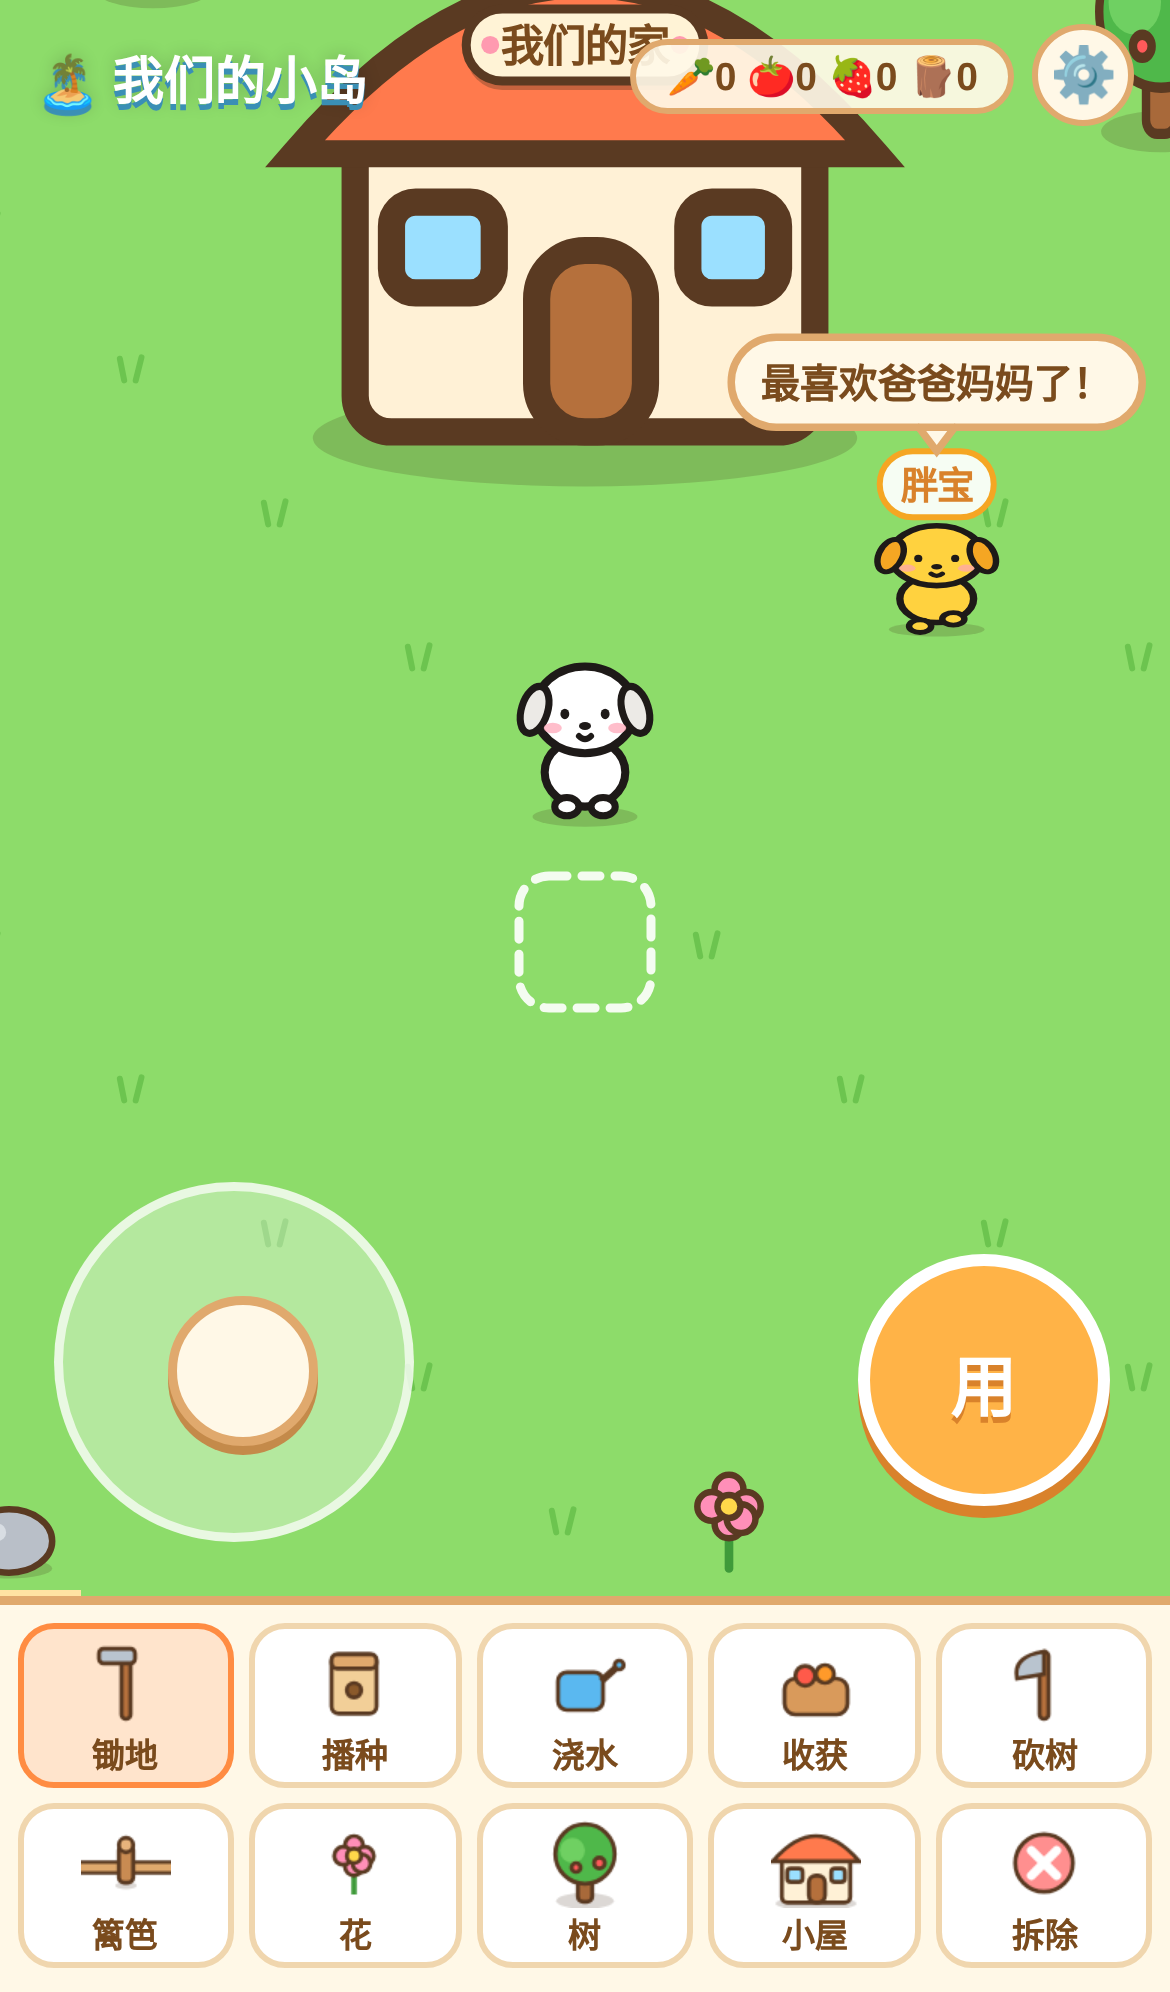
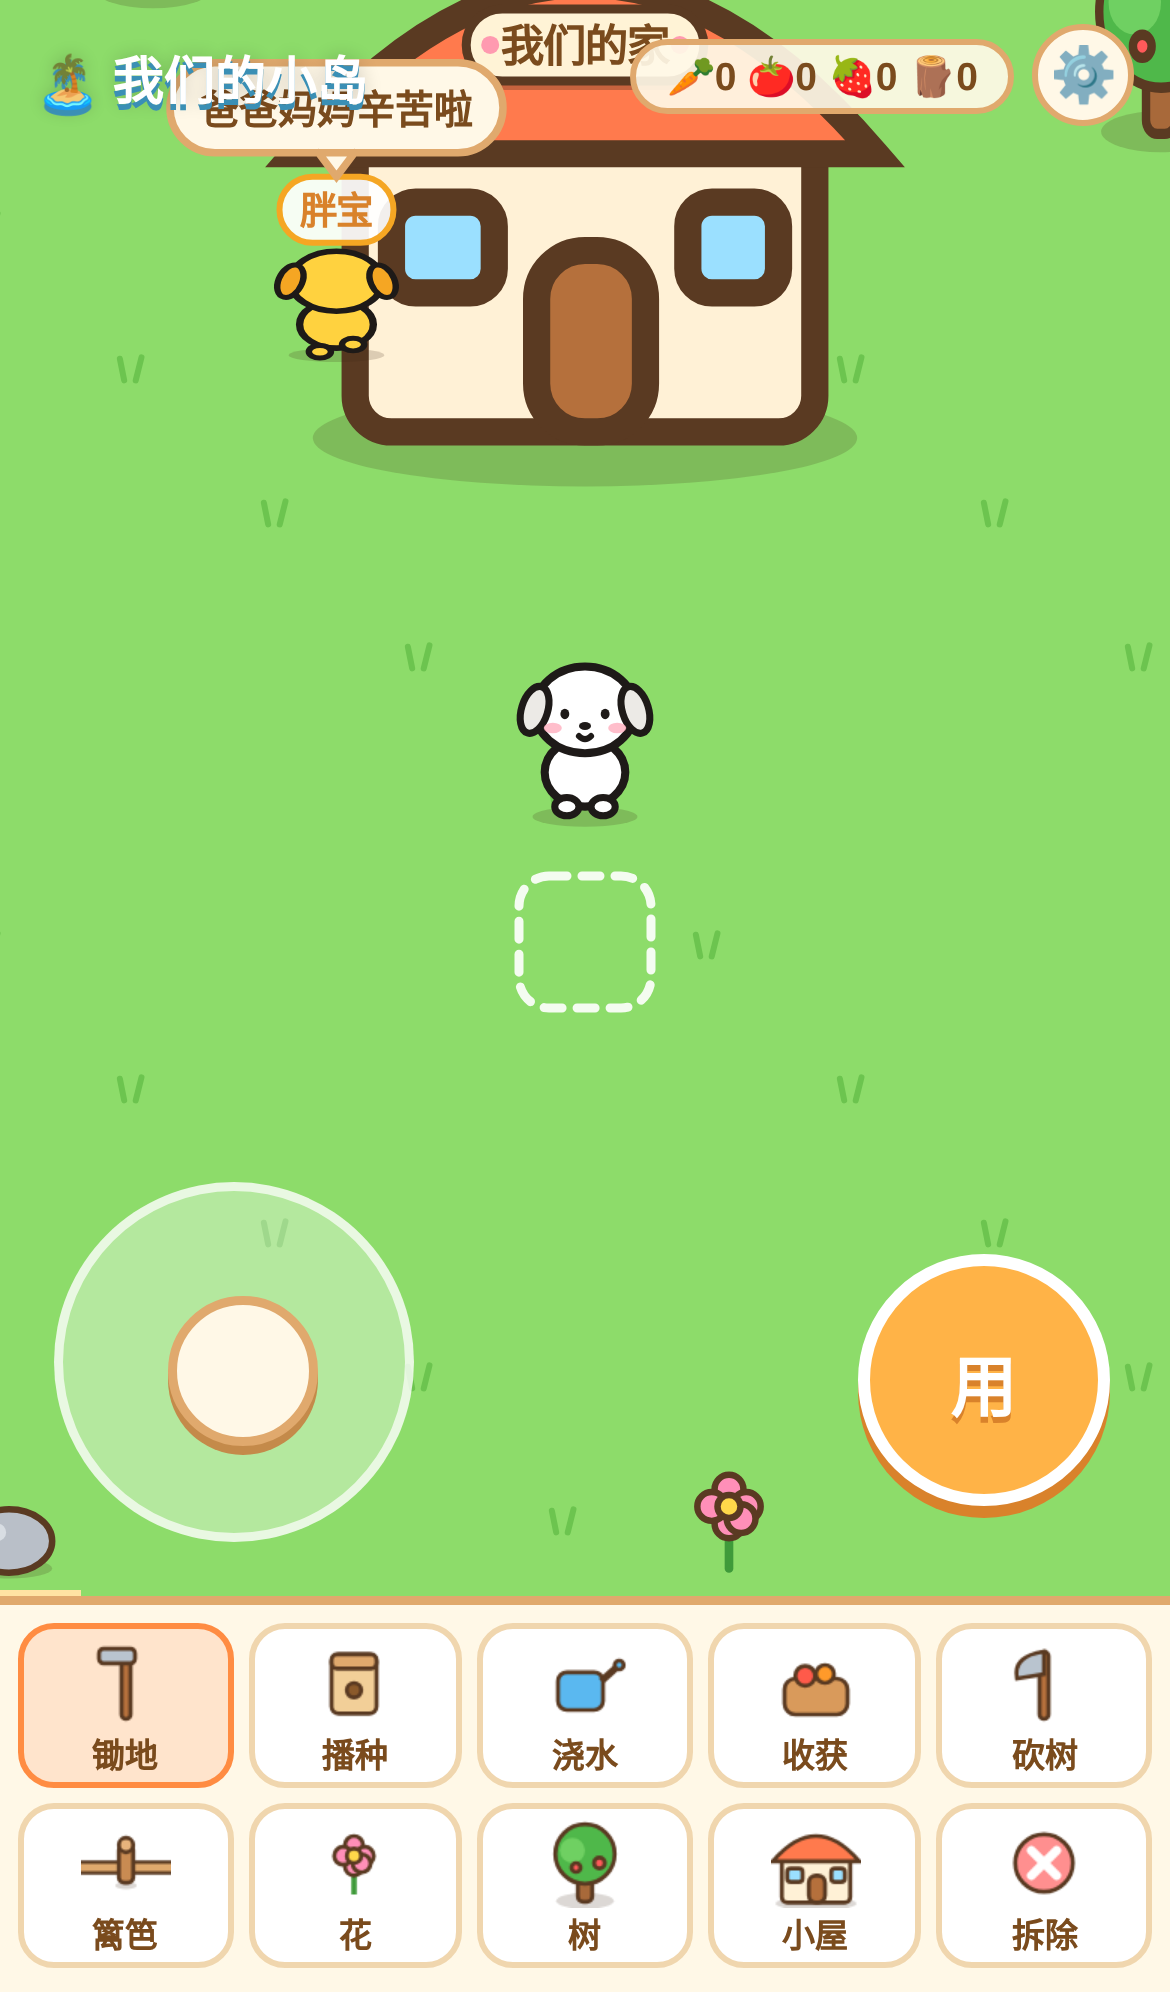
v8: 抓住/放下胖宝（抱着走、蹬腿挣扎、气泡）

Changed region(s): [[0.6154, 0.1556, 0.9846, 0.3424], [0.1231, 0.0311, 0.4308, 0.1867]]

diff --git a/js/baby.js b/js/baby.js
@@ -5,9 +5,16 @@ const BABY_SAY={
  sit:['胖宝好舒服','胖宝累了','胖宝乖乖坐好','胖宝在晒太阳','胖宝在等爸爸妈妈','胖宝滚来滚去','胖宝挠挠耳朵','胖宝肚肚圆滚滚'],
  sleep:['胖宝睡着了','胖宝在做美梦','胖宝打呼噜','胖宝梦见了大骨头','胖宝梦见爸爸妈妈','嘘…胖宝在睡觉'],
  hop:['胖宝蹦蹦跳跳','胖宝超开心！','胖宝转圈圈','胖宝跳起来了'],
+ carry:['放开我~','胖宝挣扎中','胖宝要下来','幸福的胖宝','胖宝蹬蹬腿','被抱住啦！','胖宝跑不掉了','胖宝在爸爸妈妈怀里'],
  tap:['最喜欢爸爸妈妈了！','胖宝爱你哦 ❤','抱抱～','嘿嘿，好痒','亲亲！','胖宝今天很乖哦','要一直在一起哦','爸爸妈妈辛苦啦']};
 const pick=a=>a[Math.random()*a.length|0];
-const baby={x:0,y:0,dir:0,mode:'idle',t:1,tx:0,ty:0,phase:0,bub:'',bubT:0,nextBub:3,hop:0,heart:0,init:false};
+const baby={x:0,y:0,dir:0,mode:'idle',t:1,tx:0,ty:0,phase:0,bub:'',bubT:0,nextBub:3,hop:0,heart:0,init:false,carried:false};
+const grabBtn=document.getElementById('grab');
+function setGrab(show,txt){if(grabBtn.classList.contains('hidden')===show)grabBtn.classList.toggle('hidden',!show);if(grabBtn.textContent!==txt)grabBtn.textContent=txt}
+grabBtn.addEventListener('pointerdown',e=>{e.preventDefault();baby.carried?babyDrop():babyGrab()});
+function babyGrab(){baby.carried=true;baby.mode='carry';baby.nextBub=1.5;say(pick(BABY_SAY.carry))}
+function babyDrop(){const p=state.player,d=[[0,1],[0,-1],[-1,0],[1,0]][p.dir];const c=[d,[0,1],[1,0],[-1,0],[0,-1]];
+ for(const[dx,dy]of c){const x=Math.floor(p.x)+dx+.5,y=Math.floor(p.y)+dy+.5;if(babyFree(x,y)){baby.x=x;baby.y=y;baby.carried=false;babyMode('hop',1.2);say('胖宝自由啦～');return}}toast('这里放不下胖宝')}
 function babyHome(){for(const k in state.obj)if(state.obj[k]==='house')return[k%W+.5,(k/W|0)+2.5];return[state.player.x,state.player.y+1]}
 function babyFree(x,y){const r=.2;return![[x-r,y-.05],[x+r,y-.05],[x-r,y+.15],[x+r,y+.15]].some(([a,b])=>blocked(Math.floor(a),Math.floor(b)))}
 function babyName(){state.baby=state.baby||{name:'胖宝'};return state.baby.name||'胖宝'}
@@ -17,7 +24,9 @@ function babyMode(m,t){baby.mode=m;baby.t=t;if(m==='walk'){const[hx,hy]=babyHome
  if(m==='hop')baby.hop=0}
 function babyUpdate(dt){if(!baby.init){const[hx,hy]=babyHome();baby.x=hx+1;baby.y=hy;if(!babyFree(baby.x,baby.y)){baby.x=state.player.x;baby.y=state.player.y}baby.init=true;if(!state.baby){babyName();save()}}
  baby.phase+=dt*(baby.mode==='walk'?12:baby.mode==='hop'?14:3);baby.t-=dt;baby.bubT-=dt;baby.heart=Math.max(0,baby.heart-dt);baby.nextBub-=dt;
- const p=state.player,dp=Math.hypot(p.x-baby.x,p.y-baby.y);
+ const p=state.player;
+ if(baby.carried){baby.x=p.x;baby.y=p.y;baby.phase+=dt*40;setGrab(true,'放下胖宝');if(baby.nextBub<0){say(pick(BABY_SAY.carry));baby.nextBub=3+Math.random()*4}return}
+ const dp=Math.hypot(p.x-baby.x,p.y-baby.y);setGrab(dp<1.5,'抓住胖宝');
  if(dp<.6&&baby.mode!=='walk'){babyMode('walk',4)}
  if(baby.mode==='walk'){const dx=baby.tx-baby.x,dy=baby.ty-baby.y,d=Math.hypot(dx,dy),sp=1.6*dt;
   if(d<.1||baby.t<0){const r=Math.random();babyMode(r<.45?'idle':r<.65?'sit':r<.8?'sleep':'hop',r<.65?2+Math.random()*4:r<.8?6+Math.random()*6:1.5)}
@@ -25,8 +34,8 @@ function babyUpdate(dt){if(!baby.init){const[hx,hy]=babyHome();baby.x=hx+1;baby.
    if(babyFree(baby.x+vx,baby.y)){baby.x+=vx;moved=true}if(babyFree(baby.x,baby.y+vy)){baby.y+=vy;moved=true}if(!moved)babyMode('walk',3)}}
  else{if(baby.mode==='hop')baby.hop+=dt;if(baby.t<0)babyMode(Math.random()<.75?'walk':'hop',2+Math.random()*3)}
  if(baby.nextBub<0)say(pick(BABY_SAY[baby.mode]||BABY_SAY.idle))}
-function babyTap(wx,wy){if(Math.hypot(wx-baby.x,wy-(baby.y-.35))>.7)return false;babyMode('hop',1.2);baby.heart=1.6;say(pick(BABY_SAY.tap));return true}
-function babyDraw(){const b=baby,sleeping=b.mode==='sleep',sit=b.mode==='sit'||sleeping;let jump=0;
+function babyTap(wx,wy){if(baby.carried)return false;if(Math.hypot(wx-baby.x,wy-(baby.y-.35))>.7)return false;babyMode('hop',1.2);baby.heart=1.6;say(pick(BABY_SAY.tap));return true}
+function babyDraw(){const b=baby;if(b.carried)return drawCarried();const sleeping=b.mode==='sleep',sit=b.mode==='sit'||sleeping;let jump=0;
  if(b.mode==='hop')jump=Math.abs(Math.sin(b.hop*7))*.35;
  const X=b.x*T,Y=(b.y-jump)*T,sz=T*1.05;
  ctx.save();ctx.translate(X,Y);if(sit)ctx.scale(1.08,.9);ctx.scale(1.15,1);ctx.translate(-sz/2,-sz*.94);ctx.scale(sz,sz);
@@ -43,3 +52,12 @@ function babyDraw(){const b=baby,sleeping=b.mode==='sleep',sit=b.mode==='sit'||s
  if(b.bubT>0){ctx.font=`800 ${T*.27}px "PingFang SC",sans-serif`;const tw=ctx.measureText(b.bub).width+20,by=ny-34;ctx.globalAlpha=Math.min(1,b.bubT*2);
   ctx.beginPath();ctx.roundRect(X-tw/2,by-15,tw,30,15);ctx.moveTo(X-6,by+15);ctx.lineTo(X,by+23);ctx.lineTo(X+6,by+15);ctx.fillStyle='#fff8e7';ctx.fill();ctx.lineWidth=2.5;ctx.strokeStyle='#e0a96d';ctx.stroke();
   ctx.fillStyle='#7a4b1d';ctx.fillText(b.bub,X,by+1);ctx.globalAlpha=1}}
+function drawCarried(){const b=baby,p=state.player,X=p.x*T,Y=(p.y-.12)*T,sz=T*.82;
+ ctx.save();ctx.translate(X+(p.dir===2?-.18:p.dir===3?.18:0)*T,Y);ctx.rotate(Math.sin(performance.now()/90)*.08);ctx.scale(1.15,1);ctx.translate(-sz/2,-sz*.94);ctx.scale(sz,sz);
+ S.puppy(ctx,p.dir===1?1:0,b.phase,true,'baby');ctx.restore();
+ // arms hugging
+ ctx.fillStyle=charKind==='yellow'?'#ffe9b0':'#fff';ctx.strokeStyle='#1e1a18';ctx.lineWidth=2.5;[-1,1].forEach(s=>{ctx.beginPath();ctx.ellipse(X+s*T*.26,Y-T*.32,T*.09,T*.07,0,0,7);ctx.fill();ctx.stroke()});
+ const ny=Y-sz*1.05;ctx.textAlign='center';ctx.textBaseline='middle';
+ if(b.bubT>0){ctx.font=`800 ${T*.27}px "PingFang SC",sans-serif`;const tw=ctx.measureText(b.bub).width+20,by=ny-40;ctx.globalAlpha=Math.min(1,b.bubT*2);
+  ctx.beginPath();ctx.roundRect(X-tw/2,by-15,tw,30,15);ctx.moveTo(X-6,by+15);ctx.lineTo(X,by+23);ctx.lineTo(X+6,by+15);ctx.fillStyle='#fff8e7';ctx.fill();ctx.lineWidth=2.5;ctx.strokeStyle='#e0a96d';ctx.stroke();ctx.fillStyle='#7a4b1d';ctx.fillText(b.bub,X,by+1);ctx.globalAlpha=1}
+ const name=babyName();ctx.font=`900 ${T*.26}px "Yuanti SC","PingFang SC",sans-serif`;const nw=ctx.measureText(name).width+14;ctx.beginPath();ctx.roundRect(X-nw/2,ny-11-T*.35,nw,22,11);ctx.fillStyle='rgba(255,255,255,.92)';ctx.fill();ctx.lineWidth=2;ctx.strokeStyle='#f5a623';ctx.stroke();ctx.fillStyle='#d9822b';ctx.fillText(name,X,ny+1-T*.35)}

diff --git a/index.html b/index.html
@@ -11,13 +11,13 @@
 <link rel="apple-touch-icon" href="icon-180.png">
 <link rel="icon" href="icon-192.png">
 <title>我们的小岛</title>
-<link rel="stylesheet" href="style.css?v=7">
+<link rel="stylesheet" href="style.css?v=8">
 </head><body>
 <header id="top"><div id="title">🏝 我们的小岛</div><div id="right"><div id="inv"></div><button id="gear">⚙</button></div></header>
 <div id="menu" class="hidden"><div class="card"><b>选择我的小狗</b><div class="pups"><button data-char="white"><canvas width="96" height="96"></canvas>白狗</button><button data-char="yellow"><canvas width="96" height="96"></canvas>黄狗</button></div><button id="menuClose">好的</button></div></div>
 <main><canvas id="map"></canvas><div id="toast"></div>
 <div id="joy"><div id="knob"></div></div>
-<button id="act">用</button></main>
+<button id="act">用</button><button id="grab" class="hidden">抓住胖宝</button></main>
 <div id="signDlg" class="hidden"><div class="card"><b>🏠 编辑门牌</b><input id="signIn" maxlength="12" placeholder="我们的家" enterkeyhint="done" autocomplete="off"><div class="row"><button id="signCancel">取消</button><button id="signOk">好的</button></div></div></div>
 <div id="house" class="hidden"><div class="hhead"><button id="houseClose">‹ 出门</button><h2 id="houseTitle">🏠 我们的家</h2><span></span></div>
 <div class="hbody"><h3>💕 见面了一起吃</h3><ul id="wishList"></ul>
@@ -26,9 +26,9 @@
 <h3 id="doneHead" class="hidden">✅ 吃过啦</h3><ul id="doneList"></ul></div></div>
 <div id="seeds" class="hidden"></div>
 <nav id="toolbar"></nav>
-<script src="js/store.js?v=7"></script>
-<script src="js/sprites.js?v=7"></script>
-<script src="js/game.js?v=7"></script>
-<script src="js/baby.js?v=7"></script>
+<script src="js/store.js?v=8"></script>
+<script src="js/sprites.js?v=8"></script>
+<script src="js/game.js?v=8"></script>
+<script src="js/baby.js?v=8"></script>
 <script>if('serviceWorker' in navigator){navigator.serviceWorker.register('sw.js',{updateViaCache:'none'}).then(r=>r.update());let d=0;navigator.serviceWorker.addEventListener('controllerchange',()=>{if(!d){d=1;location.reload()}})}</script>
 </body></html>

diff --git a/js/game.js b/js/game.js
@@ -125,8 +125,8 @@ function draw(){frame++;const p=state.player;
    else if(o==='house'){ctx.save();ctx.translate((x-1.6)*T,(y-2.99)*T);ctx.scale(T*4.2,T*4.2);S.house(ctx);ctx.restore();drawSign(x,y,state.names[i]||'我们的家')}
    else if(o==='tree'){ctx.save();ctx.translate((x-.15)*T,(y-.6)*T);ctx.scale(T*1.3,T*1.6);S.tree(ctx);ctx.restore()}
    else if(o)sprite(S[o],x,y)}
-  if(window.babyDraw&&y===Math.floor(baby.y))babyDraw();
-  if(y===py){ctx.save();ctx.translate((p.x-.7)*T,(p.y-1.2)*T);ctx.scale(T*1.4,T*1.4);S.puppy(ctx,p.dir,phase,moving,charKind);ctx.restore()}}
+  if(window.babyDraw&&!baby.carried&&y===Math.floor(baby.y))babyDraw();
+  if(y===py){ctx.save();ctx.translate((p.x-.7)*T,(p.y-1.2)*T);ctx.scale(T*1.4,T*1.4);S.puppy(ctx,p.dir,phase,moving,charKind);ctx.restore();if(typeof baby!=='undefined'&&baby.carried)babyDraw()}}
  }
 let last=performance.now();
 function loop(now){const dt=Math.min(.05,(now-last)/1000);last=now;update(dt);window.babyUpdate&&babyUpdate(dt);draw();if(dirty&&now-lastSave>2000){lastSave=now;save()}requestAnimationFrame(loop)}

diff --git a/sw.js b/sw.js
@@ -1,4 +1,4 @@
-const C='island-v7',F=['./','index.html','style.css?v=7','js/store.js?v=7','js/sprites.js?v=7','js/game.js?v=7','js/baby.js?v=7','manifest.webmanifest','icon-180.png'];
+const C='island-v8',F=['./','index.html','style.css?v=8','js/store.js?v=8','js/sprites.js?v=8','js/game.js?v=8','js/baby.js?v=8','manifest.webmanifest','icon-180.png'];
 self.addEventListener('install',e=>{e.waitUntil(caches.open(C).then(c=>c.addAll(F)));self.skipWaiting()});
 self.addEventListener('activate',e=>e.waitUntil(caches.keys().then(k=>Promise.all(k.filter(x=>x!==C).map(x=>caches.delete(x)))).then(()=>self.clients.claim())));
 self.addEventListener('fetch',e=>e.respondWith(fetch(e.request,{cache:'no-cache'}).then(r=>{const c=r.clone();caches.open(C).then(x=>x.put(e.request,c));return r}).catch(()=>caches.match(e.request))));

diff --git a/style.css b/style.css
@@ -57,3 +57,5 @@ li.done .chk{background:#7cc96b;border-color:#5aa84a}
 #wishForm .row{display:flex;gap:10px;justify-content:flex-end}#wishForm .row button{border:0;border-radius:12px;padding:8px 20px;font-size:15px;font-weight:800}
 #formCancel{background:#f0d6ae;color:#7a4b1d}#wishForm button[type=submit]{background:#ffb347;color:#fff;box-shadow:0 3px 0 #d9822b}
 #toast{z-index:30}
+#grab{position:absolute;right:16px;bottom:128px;z-index:4;border:3px solid #fff;background:#ffd23f;color:#7a4b1d;font-weight:900;font-size:15px;border-radius:20px;padding:9px 14px;box-shadow:0 4px 0 #e0a020}
+#grab:active{transform:translateY(3px);box-shadow:0 1px 0 #e0a020}
